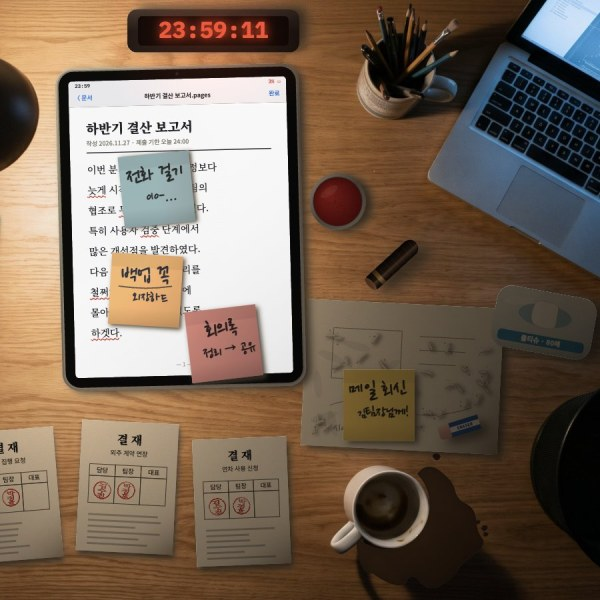
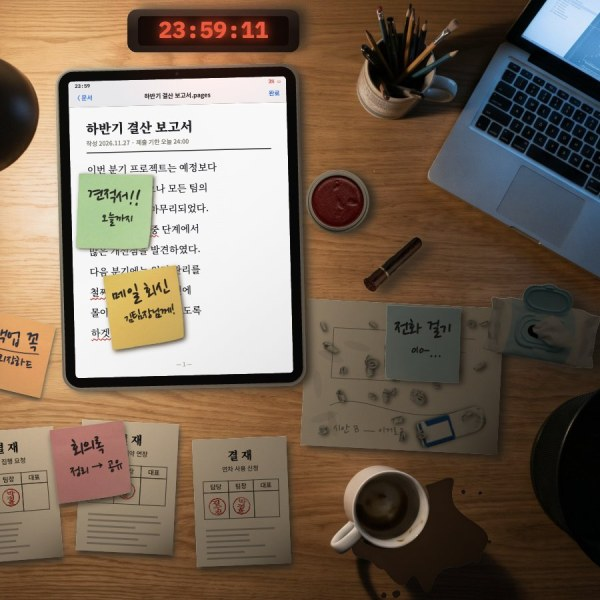
day-261127 인주·도장·물티슈·포스트잇·지우개·지우개 가루를 생성 사진 누끼로

diff --git a/day-261127/main.js b/day-261127/main.js
@@ -105,6 +105,11 @@ bg.onload = () => {
   x.putImageData(d, 0, 0); LM.width = w; LM.height = h; LM.getContext('2d').drawImage(t, 0, 0); lmReady = true;
 };
 const PEN = "'Nanum Pen Script', cursive";
+const IMG = {}; ['ink', 'stamp', 'pack', 'wipe', 'used', 'eraser', 'crumbs', 'note0', 'note1', 'note2', 'note3', 'note4'].forEach(k => { const im = new Image(); im.src = `obj/${k}.webp`; IMG[k] = im; });
+const CR = [[0, 0, 37, 48], [50, 0, 48, 28], [100, 0, 42, 48], [150, 0, 44, 48], [200, 0, 48, 47], [250, 0, 48, 32], [300, 0, 43, 48], [350, 0, 48, 30], [400, 0, 48, 33], [450, 0, 43, 48], [500, 0, 44, 48], [550, 0, 40, 48], [600, 0, 48, 45], [650, 0, 45, 48], [700, 0, 44, 48], [750, 0, 48, 24], [800, 0, 30, 48], [850, 0, 43, 48], [900, 0, 34, 48], [950, 0, 48, 27], [1000, 0, 48, 36], [1050, 0, 48, 39], [1100, 0, 47, 24], [1150, 0, 48, 27], [1200, 0, 48, 28], [1250, 0, 35, 48], [1300, 0, 39, 48], [1350, 0, 44, 48], [1400, 0, 42, 48], [1450, 0, 48, 48], [1500, 0, 48, 45], [1550, 0, 45, 48], [1600, 0, 48, 44], [1650, 0, 36, 48], [1700, 0, 48, 42], [1750, 0, 48, 32], [1800, 0, 48, 45], [1850, 0, 46, 48], [1900, 0, 38, 48], [1950, 0, 42, 48]];
+const NOTE_IMG = { '#ffe066': 'note0', '#ffb3c7': 'note1', '#a8e6cf': 'note4', '#9ad0ff': 'note2', '#ffd19a': 'note3' };
+const ok = im => im && im.complete && im.naturalWidth;
+function sprite(k, x, y, w, h, rot, sh) { const im = IMG[k]; if (!ok(im)) return; cx.save(); cx.translate(x, y); cx.rotate(rot); if (sh !== undefined) shadowFor(x, y, sh); cx.drawImage(im, -w / 2, -h / 2, w, h); cx.restore(); }
 let paperPat = null;
 function sheet(p, col = '#fbf8f1', lift = 1) {
   if (!paperPat) {
@@ -129,12 +134,7 @@ function drawSketch() {
     cx.beginPath(); cx.moveTo(60, 230); cx.bezierCurveTo(140, 190, 220, 280, 370, 220); cx.stroke();
     cx.fillStyle = 'rgba(70,70,80,.5)'; cx.font = `30px ${PEN}`; cx.fillText('시안 B — 이거로?', 70, 290);
     cx.fillStyle = 'rgba(90,90,100,.1)'; for (let i = 0; i < 6; i++) { cx.save(); cx.translate(rnd0(i) * p.w, 30 + rnd0(i + 9) * (p.h - 60)); cx.rotate(rnd0(i + 3) * 3); cx.beginPath(); cx.ellipse(0, 0, 30, 9, 0, 0, 7); cx.fill(); cx.restore(); }
-    cx.save(); cx.translate(345, 265); cx.rotate(-.35); shadowFor(p.x + 250, p.y + 200, 5);
-    cx.fillStyle = '#f2b8b0'; cx.beginPath(); cx.roundRect(-46, -15, 92, 30, 7); cx.fill(); noShadow();
-    const eg = cx.createLinearGradient(0, -15, 0, 15); eg.addColorStop(0, 'rgba(255,255,255,.35)'); eg.addColorStop(1, 'rgba(120,40,40,.25)'); cx.fillStyle = eg; cx.beginPath(); cx.roundRect(-46, -15, 92, 30, 7); cx.fill();
-    cx.fillStyle = '#2c5fb5'; cx.fillRect(-20, -16, 66, 32); cx.fillStyle = '#f4f4f2'; cx.fillRect(-20, -6, 66, 12);
-    cx.fillStyle = '#2c5fb5'; cx.font = `900 9px 'Noto Sans KR', sans-serif`; cx.textAlign = 'center'; cx.textBaseline = 'middle'; cx.fillText('ERASER', 13, 0);
-    cx.restore();
+    sprite('eraser', 330, 262, 150, 58, -.35, 4);
   });
 }
 const SEALS = {};
@@ -244,29 +244,18 @@ function renderSpill() {
 function drawSpill() { if (SP.dirty) renderSpill(); const s = SP.C.width / SP.k; cx.globalAlpha = .84; cx.drawImage(SP.C, SP.o[0], SP.o[1], s, s); cx.globalAlpha = 1; }
 function spillGloss() { const s = SP.C.width / SP.k; cx.globalCompositeOperation = 'screen'; cx.drawImage(SP.HC, SP.o[0], SP.o[1], s, s); cx.globalCompositeOperation = 'source-over'; }
 function drawCrumbs() {
-  cx.lineCap = 'round'; cx.lineJoin = 'round';
-  st.crumbs.forEach(c => {
+  const im = IMG.crumbs; if (!ok(im)) return;
+  st.crumbs.forEach((c, i) => {
     if (c.off >= 1) return;
-    cx.globalAlpha = 1 - c.off;
-    cx.fillStyle = 'rgba(150,140,135,.8)'; c.specks.forEach(([dx, dy, r]) => { cx.beginPath(); cx.arc(c.x + dx, c.y + dy, r, 0, 7); cx.fill(); });
-    const L = c.len, pts = [-1, -.35, .35, 1].map(t => { const a = c.a + c.curl * t; return [c.x + Math.cos(c.a) * L * t * .5 + Math.cos(a + 1.57) * c.curl * 3 * (1 - t * t), c.y + Math.sin(c.a) * L * t * .5 + Math.sin(a + 1.57) * c.curl * 3 * (1 - t * t)]; });
-    const path = () => { cx.beginPath(); cx.moveTo(...pts[0]); cx.bezierCurveTo(...pts[1], ...pts[2], ...pts[3]); };
-    cx.save(); shadowFor(c.x, c.y, 1.6); cx.strokeStyle = '#b9aea8'; cx.lineWidth = c.th; path(); cx.stroke(); cx.restore();
-    cx.strokeStyle = '#e2d7d0'; cx.lineWidth = c.th * .55; cx.save(); cx.translate(-.5, -.6); path(); cx.stroke(); cx.restore();
-    cx.strokeStyle = 'rgba(255,255,255,.6)'; cx.lineWidth = .8; cx.save(); cx.translate(-.8, -1); path(); cx.stroke(); cx.restore();
+    const r = CR[i % CR.length], sz = c.len * 1.55, w = sz * r[2] / 48, h = sz * r[3] / 48;
+    cx.save(); cx.globalAlpha = 1 - c.off; cx.translate(c.x, c.y); cx.rotate(c.a); shadowFor(c.x, c.y, 1.5);
+    cx.drawImage(im, r[0], r[1], r[2], r[3], -w / 2, -h / 2, w, h); cx.restore();
   });
-  cx.globalAlpha = 1;
 }
 function drawInk() {
   const [x, y, r] = LY.ink;
-  cx.save(); shadowFor(x, y, 5); cx.fillStyle = '#5a5c60'; cx.beginPath(); cx.arc(x, y, r, 0, 7); cx.fill(); cx.restore();
-  const g = cx.createLinearGradient(x - r, y - r, x + r, y + r); g.addColorStop(0, '#d9dbde'); g.addColorStop(.5, '#7a7c80'); g.addColorStop(1, '#b8babe');
-  cx.strokeStyle = g; cx.lineWidth = 5; cx.beginPath(); cx.arc(x, y, r - 2.5, 0, 7); cx.stroke();
-  const f = cx.createRadialGradient(x - r * .3, y - r * .3, 2, x, y, r * .85); f.addColorStop(0, '#d0262a'); f.addColorStop(1, '#7c0d12');
-  cx.fillStyle = f; cx.beginPath(); cx.arc(x, y, r - 6, 0, 7); cx.fill();
-  cx.fillStyle = 'rgba(40,0,0,.25)'; for (let i = 0; i < 40; i++) { const a = rnd0(i) * 6.3, d = rnd0(i + 50) * (r - 9); cx.beginPath(); cx.arc(x + Math.cos(a) * d, y + Math.sin(a) * d, .9, 0, 7); cx.fill(); }
-  cx.fillStyle = 'rgba(255,200,200,.18)'; cx.beginPath(); cx.ellipse(x - r * .3, y - r * .35, r * .35, r * .14, -.6, 0, 7); cx.fill();
-  if (st.dip && now - st.dip < 300) { cx.fillStyle = `rgba(90,0,0,${.4 * (1 - (now - st.dip) / 300)})`; cx.beginPath(); cx.arc(st.dipX, st.dipY, 22, 0, 7); cx.fill(); }
+  sprite('ink', x, y, r * 2.25, r * 2.25, .2, 5);
+  if (st.dip && now - st.dip < 300) { cx.fillStyle = `rgba(70,0,0,${.35 * (1 - (now - st.dip) / 300)})`; cx.beginPath(); cx.arc(st.dipX, st.dipY, 20, 0, 7); cx.fill(); }
 }
 function stampBody(len, w) {
   const g = cx.createLinearGradient(0, -w / 2, 0, w / 2);
@@ -277,47 +266,26 @@ function stampBody(len, w) {
   cx.fillStyle = gold; cx.fillRect(len / 2 - 20, -w / 2, 7, w);
 }
 function stampLying(x, y, ang) {
-  const len = 92, w = 25;
-  cx.save(); cx.translate(x, y); cx.rotate(ang); shadowFor(x, y, 9);
-  cx.fillStyle = '#100a07'; cx.beginPath(); cx.roundRect(-len / 2, -w / 2, len, w, [w * .5, 4, 4, w * .5]); cx.fill(); noShadow();
-  stampBody(len, w);
-  const fg = cx.createLinearGradient(len / 2 - 3, -w / 2, len / 2 + 5, w / 2); fg.addColorStop(0, '#c9a86f'); fg.addColorStop(1, '#8c6a3a');
-  cx.fillStyle = fg; cx.beginPath(); cx.ellipse(len / 2, 0, 4.5, w / 2, 0, 0, 7); cx.fill();
-  cx.fillStyle = st.ink ? 'rgba(200,25,20,.9)' : 'rgba(170,40,35,.35)'; cx.beginPath(); cx.ellipse(len / 2 + .5, 0, 3, w / 2 - 3, 0, 0, 7); cx.fill();
-  cx.restore();
+  sprite('stamp', x, y, 108, 24.3, ang, 7);
+  if (st.ink) { cx.save(); cx.translate(x, y); cx.rotate(ang); cx.fillStyle = 'rgba(200,20,15,.55)'; cx.beginPath(); cx.ellipse(52, 0, 3, 10, 0, 0, 7); cx.fill(); cx.restore(); }
 }
 function stampHeld(x, y, pressing) {
-  const lift = pressing ? 2 : 16, dx = x - LY.lamp[0], dy = y - LY.lamp[1], d = Math.hypot(dx, dy) || 1;
-  cx.save(); shadowFor(x, y, lift + 30); cx.fillStyle = '#100a07'; cx.beginPath(); cx.ellipse(x, y, 13, 13, 0, 0, 7); cx.fill(); noShadow(); cx.restore();
-  cx.save(); cx.translate(x, y - lift * .4); cx.rotate(-Math.PI / 2 - .35);
-  cx.translate(26, 0); stampBody(54, 25);
-  cx.fillStyle = '#2a1b13'; cx.beginPath(); cx.ellipse(-27, 0, 7, 12.5, 0, 0, 7); cx.fill();
-  const tg = cx.createRadialGradient(-29, -4, 1, -27, 0, 13); tg.addColorStop(0, '#9c7a5e'); tg.addColorStop(1, '#2a1a12');
-  cx.fillStyle = tg; cx.beginPath(); cx.ellipse(-27, 0, 6, 11.5, 0, 0, 7); cx.fill();
-  cx.restore();
-  if (st.ink) { cx.fillStyle = 'rgba(200,25,20,.55)'; cx.beginPath(); cx.ellipse(x + 2, y + 9 - lift * .4, 11, 3.5, -.35, 0, 7); cx.fill(); }
+  const lift = pressing ? 3 : 22, a = -Math.PI / 2 - .38, L = 108 * .82, H = 24.3 * 1.08;
+  cx.save(); cx.translate(x, y - lift * .3); cx.rotate(a); cx.translate(-L / 2 + 6, 0);
+  shadowFor(x, y, lift + 18); if (ok(IMG.stamp)) cx.drawImage(IMG.stamp, -L / 2, -H / 2, L, H); cx.restore();
+  if (st.ink) { cx.fillStyle = 'rgba(200,20,15,.5)'; cx.beginPath(); cx.ellipse(x, y - lift * .3, 11, 4, a + Math.PI / 2, 0, 7); cx.fill(); }
 }
 function drawPack() {
   const [x, y, w, h, r] = LY.pack;
-  cx.save(); cx.translate(x, y); cx.rotate(r); shadowFor(x, y, 6);
-  cx.fillStyle = '#dfe9ee'; cx.beginPath(); cx.roundRect(-w / 2, -h / 2, w, h, 22); cx.fill(); noShadow();
-  const g = cx.createLinearGradient(0, -h / 2, 0, h / 2); g.addColorStop(0, 'rgba(255,255,255,.55)'); g.addColorStop(.5, 'rgba(255,255,255,0)'); g.addColorStop(1, 'rgba(60,90,110,.25)');
-  cx.fillStyle = g; cx.beginPath(); cx.roundRect(-w / 2, -h / 2, w, h, 22); cx.fill();
-  cx.fillStyle = '#2f8fc9'; cx.beginPath(); cx.roundRect(-w / 2 + 10, h / 2 - 26, w - 20, 16, 5); cx.fill();
-  cx.fillStyle = '#fff'; cx.font = `900 10px 'Noto Sans KR', sans-serif`; cx.textAlign = 'center'; cx.textBaseline = 'middle'; cx.fillText('물티슈 · 80매', 0, h / 2 - 18);
-  cx.fillStyle = '#9fc7dc'; cx.beginPath(); cx.ellipse(0, -10, 40, 17, 0, 0, 7); cx.fill();
-  if (st.hold !== 'tissue') { cx.fillStyle = '#ffffff'; blob(cx, 0, -12, 22, 8, .25, 3); cx.fill(); cx.strokeStyle = 'rgba(0,0,0,.08)'; cx.lineWidth = 1; cx.stroke(); }
-  cx.fillStyle = 'rgba(255,255,255,.6)'; cx.beginPath(); cx.ellipse(-w * .28, -h * .28, 22, 6, -.2, 0, 7); cx.fill();
-  cx.restore();
+  sprite('pack', x, y, 166, 116, r, 6);
 }
 function tissueShape(x, y, rot, s, dirt, h) {
-  cx.save(); cx.translate(x, y); cx.rotate(rot); cx.scale(s, s); shadowFor(x, y, h);
-  cx.fillStyle = '#fbfcfd'; cx.beginPath(); cx.moveTo(-34, -30); cx.quadraticCurveTo(0, -38, 34, -30); cx.quadraticCurveTo(40, 0, 33, 31); cx.quadraticCurveTo(0, 38, -33, 30); cx.quadraticCurveTo(-41, 0, -34, -30); cx.fill(); noShadow();
-  cx.strokeStyle = 'rgba(120,140,150,.18)'; cx.lineWidth = 1; for (let i = -2; i <= 2; i++) { cx.beginPath(); cx.moveTo(-28, i * 12); cx.quadraticCurveTo(0, i * 12 + 5, 28, i * 12 - 2); cx.stroke(); }
-  if (dirt > 0) { cx.fillStyle = `rgba(90,48,16,${Math.min(.85, dirt * .9)})`; cx.beginPath(); cx.ellipse(4, 6, 10 + dirt * 22, 8 + dirt * 18, .3, 0, 7); cx.fill(); }
+  cx.save(); cx.translate(x, y); cx.rotate(rot); shadowFor(x, y, h);
+  if (ok(IMG.wipe)) cx.drawImage(IMG.wipe, -42, -42, 84, 84); noShadow();
+  if (dirt > 0 && ok(IMG.used)) { cx.globalCompositeOperation = 'source-atop'; cx.globalAlpha = Math.min(.9, dirt * .95); cx.drawImage(IMG.used, -30 - dirt * 14, -30 - dirt * 14, 60 + dirt * 28, 60 + dirt * 28); cx.globalCompositeOperation = 'source-over'; cx.globalAlpha = 1; }
   cx.restore();
 }
-function drawUsed() { st.used.forEach(u => { if (u.binned) return; const lifted = st.drag && st.drag.used === u; cx.save(); cx.translate(u.x, u.y); cx.rotate(u.rot); shadowFor(u.x, u.y, lifted ? 22 : 4); cx.fillStyle = '#efe6dc'; blob(cx, 0, 0, 20, 11, .35, u.seed); cx.fill(); noShadow(); cx.fillStyle = 'rgba(95,52,18,.7)'; blob(cx, 3, 2, 12, 9, .4, u.seed + 1); cx.fill(); cx.strokeStyle = 'rgba(0,0,0,.18)'; cx.lineWidth = 1; cx.beginPath(); cx.moveTo(-12, -5); cx.lineTo(6, 7); cx.moveTo(-3, -14); cx.lineTo(10, -3); cx.stroke(); cx.restore(); }); }
+function drawUsed() { st.used.forEach(u => { if (u.binned) return; const lifted = st.drag && st.drag.used === u; sprite('used', u.x, u.y, 54, 52, u.rot, lifted ? 22 : 4); }); }
 const HAND = { '메일 회신': ['메일 회신', '김팀장님께!'], '회의록 정리': ['회의록', '정리 → 공유'], '견적서!!': ['견적서!!', '오늘까지'], '전화 걸기': ['전화 걸기', '010-…'], '백업 꼭': ['백업 꼭', '외장하드'] };
 function hand(n) {
   if (!n.ink) {
@@ -346,17 +314,16 @@ function drawNote(n) {
   const lifted = st.drag && st.drag.note === n;
   cx.save(); cx.translate(px, py); cx.rotate(n.rot + k * 3); cx.scale(s * (lifted ? 1.06 : 1), s * (lifted ? 1.06 : 1));
   shadowFor(px, py, lifted ? 26 : 3);
-  cx.fillStyle = n.c; cx.fillRect(-n.w / 2, -n.h / 2, n.w, n.h); noShadow();
-  cx.fillStyle = 'rgba(0,0,0,.06)'; cx.fillRect(-n.w / 2, -n.h / 2, n.w, 20);
+  const im = IMG[NOTE_IMG[n.c]];
+  if (ok(im)) cx.drawImage(im, -n.w / 2 - 3, -n.h / 2 - 3, n.w + 6, n.h + 6); else { cx.fillStyle = n.c; cx.fillRect(-n.w / 2, -n.h / 2, n.w, n.h); } noShadow();
   cx.save(); cx.translate(0, -12);
   hand(n); cx.restore();
-  const g = cx.createLinearGradient(0, n.h / 2 - 26, 0, n.h / 2); g.addColorStop(0, 'rgba(0,0,0,0)'); g.addColorStop(1, 'rgba(0,0,0,.12)'); cx.fillStyle = g; cx.fillRect(-n.w / 2, n.h / 2 - 26, n.w, 26);
   cx.restore();
 }
 function drawBinned() {
   const [x, y] = st.bin;
-  st.used.filter(u => u.binned).forEach((u, i) => { cx.save(); cx.translate(x + 30 + Math.cos(i * 2.9) * 30, y + 20 + Math.sin(i * 2.9) * 26); cx.rotate(u.rot); shadowFor(x, y, 3); cx.fillStyle = '#e9e0d6'; blob(cx, 0, 0, 20, 11, .35, u.seed); cx.fill(); noShadow(); cx.fillStyle = 'rgba(95,52,18,.7)'; blob(cx, 3, 2, 12, 9, .4, u.seed + 1); cx.fill(); cx.restore(); });
-  st.notes.filter(n => n.binned && n.k >= 1).forEach((n, i) => { cx.save(); cx.translate(x - 20 + Math.cos(i * 2.3) * 40, y - 10 + Math.sin(i * 2.3) * 34); cx.rotate(i * 1.7); shadowFor(x, y, 3); cx.fillStyle = n.c; blob(cx, 0, 0, 24, 9, .4, i + 11); cx.fill(); noShadow(); cx.strokeStyle = 'rgba(0,0,0,.25)'; cx.lineWidth = 1.5; cx.beginPath(); cx.moveTo(-14, -4); cx.lineTo(6, 8); cx.moveTo(-4, -14); cx.lineTo(10, -2); cx.stroke(); cx.restore(); });
+  st.used.filter(u => u.binned).forEach((u, i) => sprite('used', x + 30 + Math.cos(i * 2.9) * 30, y + 20 + Math.sin(i * 2.9) * 26, 46, 44, u.rot, 3));
+  st.notes.filter(n => n.binned && n.k >= 1).forEach((n, i) => { cx.save(); cx.translate(x - 20 + Math.cos(i * 2.3) * 40, y - 10 + Math.sin(i * 2.3) * 34); cx.rotate(i * 1.7); shadowFor(x, y, 3); const im = IMG[NOTE_IMG[n.c]]; if (ok(im)) { cx.fillStyle = n.c; blob(cx, 0, 0, 24, 9, .4, i + 11); cx.fill(); noShadow(); cx.clip(); cx.drawImage(im, -30, -30, 60, 60); } cx.restore(); });
 }
 function clockBody() {
   const [x, y] = LY.clock;

diff --git a/day-261127/index.html b/day-261127/index.html
@@ -64,6 +64,6 @@
 </div>
 <input id="ed" autocomplete="off" spellcheck="false">
 <div id="ov"><button id="go">마감 50초 전 · 시작</button><div class="sub">물티슈, 도장과 인주, 키보드를 써서 다섯 가지를 끝내세요</div></div>
-<script type="module" src="main.js?v=10"></script>
+<script type="module" src="main.js?v=12"></script>
 </body>
 </html>
